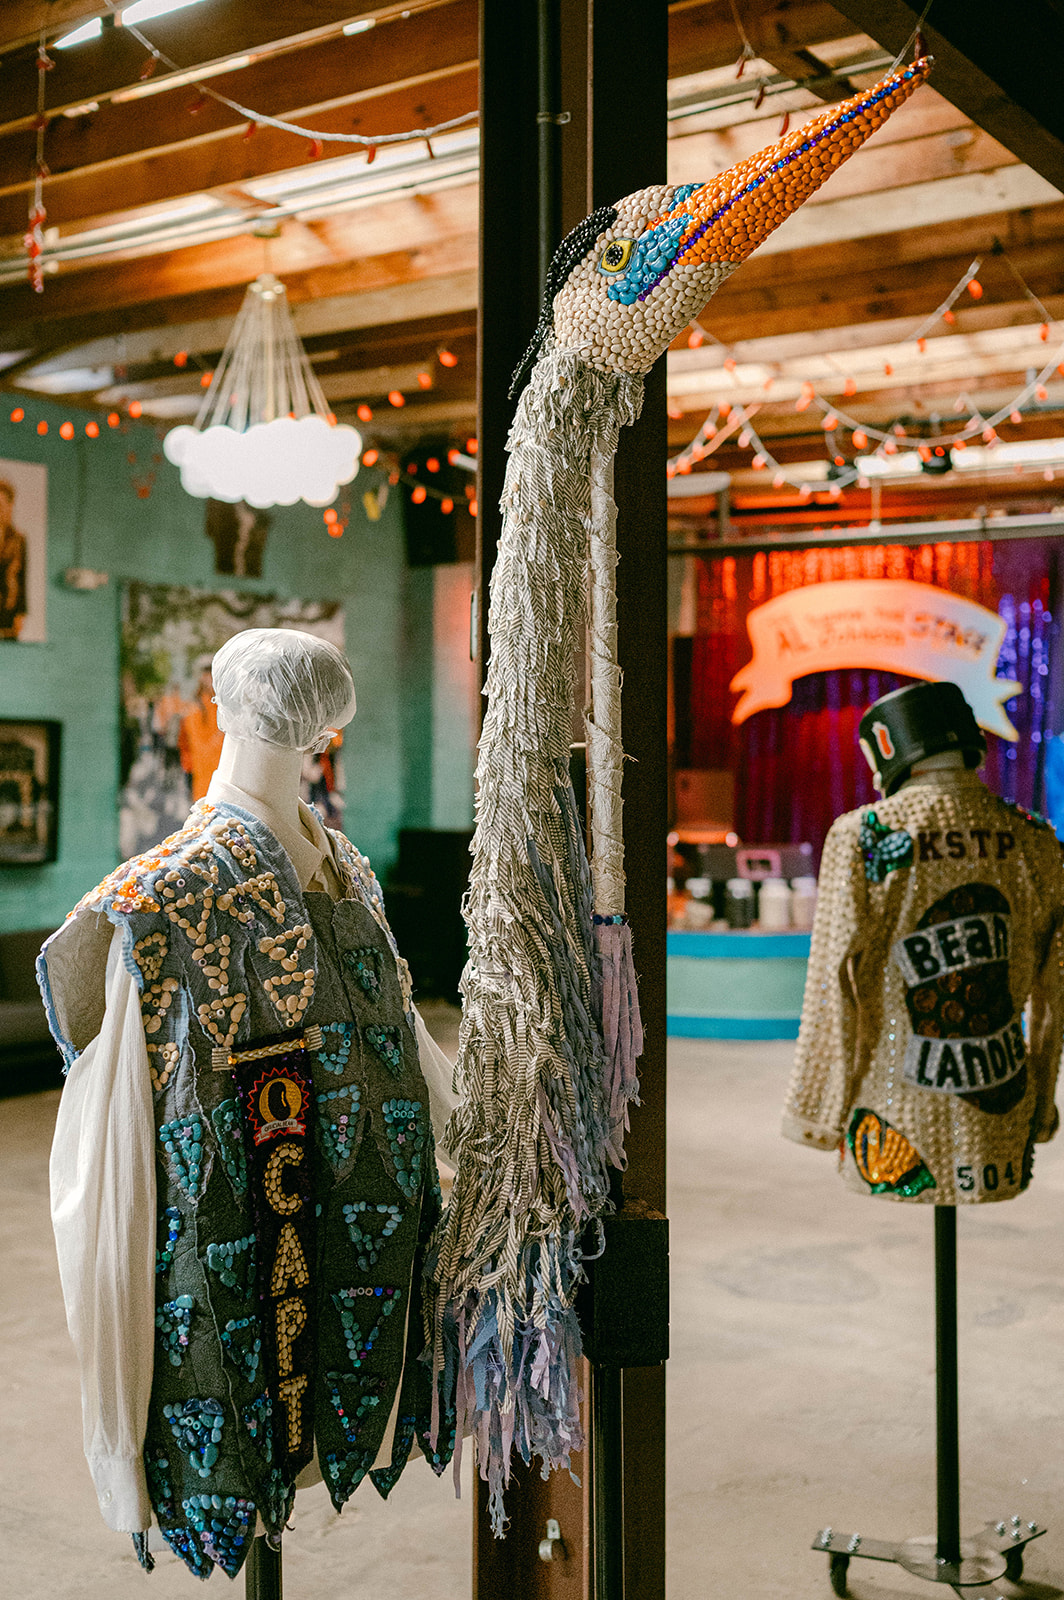
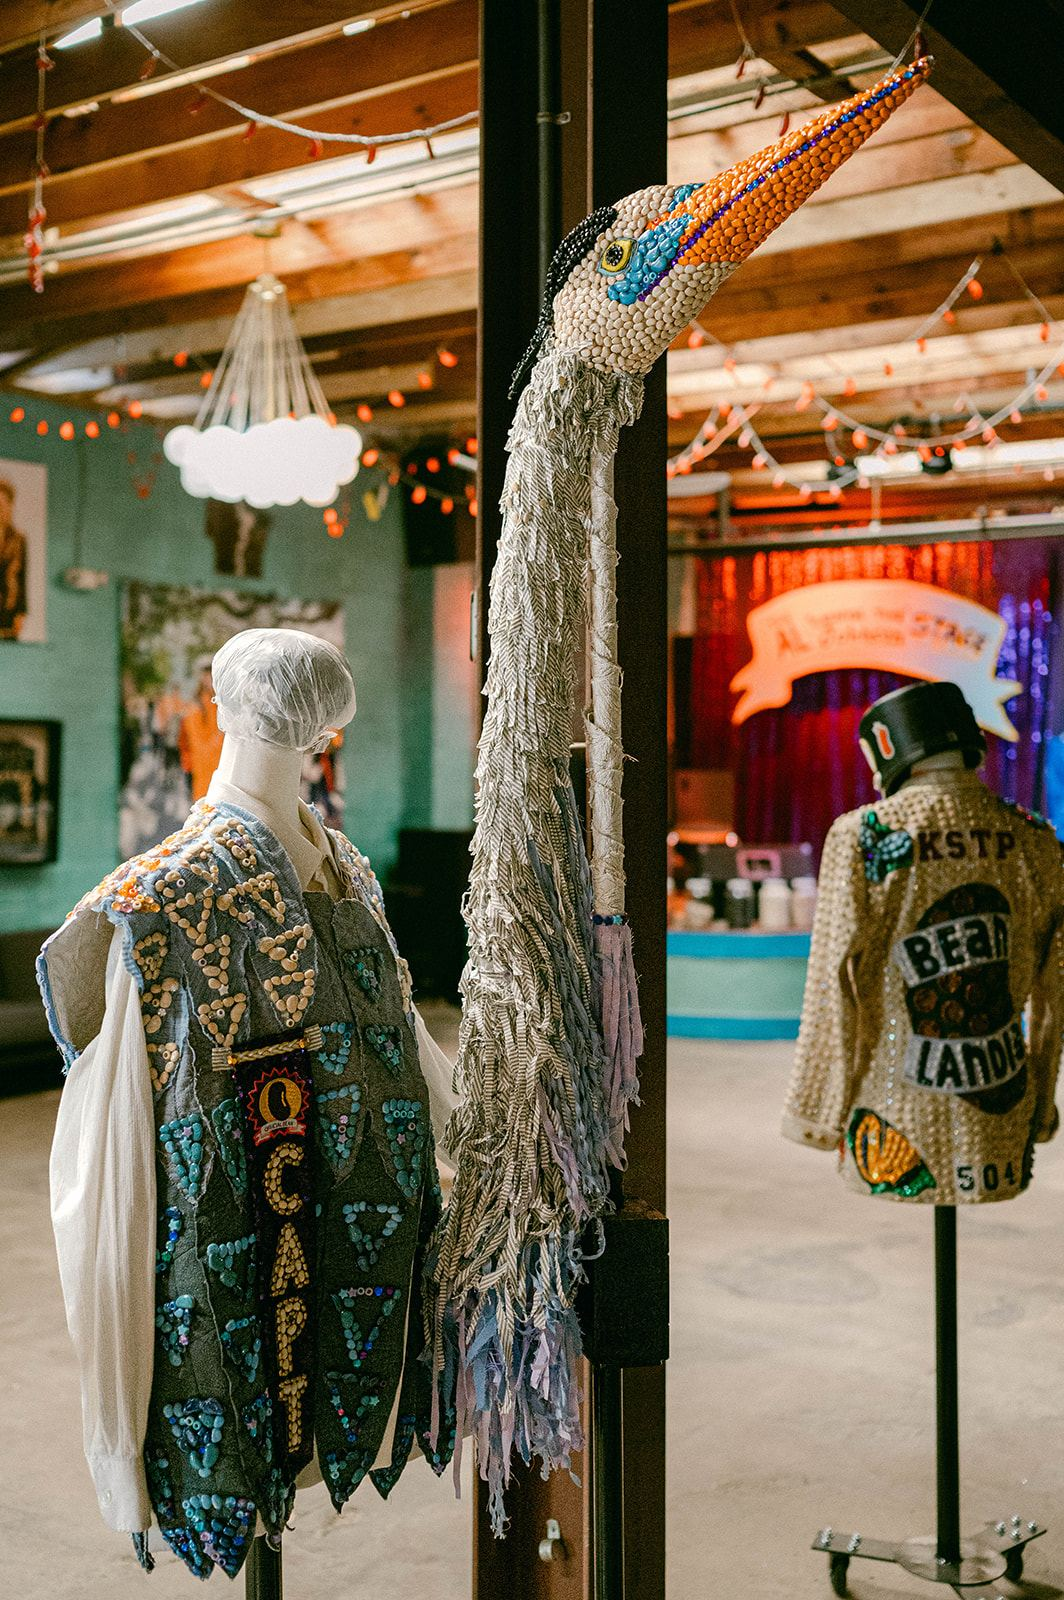
Make events show up faster on the homepage, especially on phones
Move the Events section up to directly after the hero and impact bar (EN + ES); on a phone it now starts about 1.4 screens down instead of 13. Resize and recompress the three oversized homepage photos (mission 4.0 MB to 225 KB, hero background 1.9 MB to 262 KB, museum 759 KB to 360 KB). Defer the remaining YouTube and GiveForms embeds and the two large section photos until they are scrolled near.

Changed region(s): [[0.5583, 0.0312, 0.8684, 0.1875], [0.2171, 0.6562, 0.2791, 0.75], [0.093, 0.5312, 0.1551, 0.5625]]

diff --git a/es/index.html b/es/index.html
@@ -102,6 +102,49 @@
     </div>
   </section>
 
+  <!-- EVENTOS -->
+  <section id="events">
+    <div class="container">
+      <p class="section-eyebrow">Lo que viene</p>
+      <h2>Eventos</h2>
+      <p class="section-intro">Desde noches de baile caj&uacute;n hasta reuniones del krewe, siempre hay algo pasando en Beanlandia.</p>
+
+      <div class="events-grid">
+
+        <div class="event-card">
+          <div class="event-date"><span class="event-month">Nov</span><span class="event-day">12</span></div>
+          <div class="event-info">
+            <h3>Funciones del Fringe Fest</h3>
+            <p>Jueves, viernes y domingo &mdash; 12, 13 y 15 de noviembre.</p>
+            <p class="event-location">Beanlandia &middot; 3300 Royal Street</p>
+          </div>
+        </div>
+
+        <div class="event-card">
+          <div class="event-date"><span class="event-month">Nov</span><span class="event-day">14</span></div>
+          <div class="event-info">
+            <h3>Second line de Andre Cailloux y presentaci&oacute;n del dise&ntilde;o del mural</h3>
+            <p>S&aacute;bado &middot; 10 a.m. &mdash; con la Treme Brass Band y las Mystic 7 Sisters.</p>
+          </div>
+        </div>
+
+        <div class="event-card">
+          <div class="event-date"><span class="event-month">Nov</span><span class="event-day">16</span></div>
+          <div class="event-info">
+            <h3>&iexcl;Empieza la temporada de <em>beaning</em>!</h3>
+            <p>Los lunes por la noche, a partir del 16 de noviembre: nuestras noches para hacer los disfraces del desfile.</p>
+            <p class="event-location">Beanlandia &middot; 3300 Royal Street</p>
+          </div>
+        </div>
+
+      </div>
+
+      <div class="events-footer">
+        <a href="/es/events.html" class="btn btn-primary">Ver el calendario completo &rarr;</a>
+      </div>
+    </div>
+  </section>
+
   <!-- MISI&Oacute;N -->
   <section id="mission">
     <div class="container mission-inner">
@@ -114,7 +157,7 @@
         <a href="#parade" class="btn btn-secondary">Desfila con nosotros</a>
       </div>
       <div class="mission-image">
-        <img src="/images/redbeans_2020_022420_rhr-231.jpg" alt="Integrante del Krewe of Red Beans con un disfraz de la bandera cubana hecho a mano con frijoles el d&iacute;a del desfile" class="section-photo" />
+        <img src="/images/redbeans_2020_022420_rhr-231.jpg" alt="Integrante del Krewe of Red Beans con un disfraz de la bandera cubana hecho a mano con frijoles el d&iacute;a del desfile" class="section-photo" loading="lazy" />
       </div>
     </div>
   </section>
@@ -215,7 +258,7 @@
         <div class="afterschool-video">
           <p class="afterschool-video-label">Conoce a los BeanBots</p>
           <div class="program-video">
-            <iframe src="https://www.youtube.com/embed/xfP_Ix-N54E" title="BeanBots &mdash; Rob&oacute;tica despu&eacute;s de clases en Beanlandia" frameborder="0" allow="accelerometer; autoplay; clipboard-write; encrypted-media; gyroscope; picture-in-picture" allowfullscreen></iframe>
+            <iframe loading="lazy" src="https://www.youtube.com/embed/xfP_Ix-N54E" title="BeanBots &mdash; Rob&oacute;tica despu&eacute;s de clases en Beanlandia" frameborder="0" allow="accelerometer; autoplay; clipboard-write; encrypted-media; gyroscope; picture-in-picture" allowfullscreen></iframe>
           </div>
 
           <p class="afterschool-video-label afterschool-photos-label">BeanBots en acci&oacute;n</p>
@@ -242,7 +285,7 @@
         <div class="cultural-video">
           <p class="cultural-video-label">Krewe of Mayahuel &mdash; Desfile del D&iacute;a de los Muertos</p>
           <div class="story-video">
-            <iframe src="https://www.youtube.com/embed/n7l1Y3B0ZqY" title="Krewe of Mayahuel &mdash; Desfile del D&iacute;a de los Muertos" frameborder="0" allow="accelerometer; autoplay; clipboard-write; encrypted-media; gyroscope; picture-in-picture" allowfullscreen></iframe>
+            <iframe loading="lazy" src="https://www.youtube.com/embed/n7l1Y3B0ZqY" title="Krewe of Mayahuel &mdash; Desfile del D&iacute;a de los Muertos" frameborder="0" allow="accelerometer; autoplay; clipboard-write; encrypted-media; gyroscope; picture-in-picture" allowfullscreen></iframe>
           </div>
         </div>
       </div>
@@ -253,7 +296,7 @@
   <section id="museum">
     <div class="container museum-inner">
       <div class="museum-image">
-        <img src="/images/240412beanlandiaspace_089.jpg" alt="Interior de Beanlandia: trajes de desfile hechos a mano con frijoles sobre maniqu&iacute;es, una escultura de p&eacute;licano y el escenario principal al fondo" class="section-photo" />
+        <img src="/images/240412beanlandiaspace_089.jpg" alt="Interior de Beanlandia: trajes de desfile hechos a mano con frijoles sobre maniqu&iacute;es, una escultura de p&eacute;licano y el escenario principal al fondo" class="section-photo" loading="lazy" />
       </div>
       <div class="museum-text">
         <p class="section-eyebrow">3300 Royal Street</p>
@@ -348,49 +391,6 @@
     </div>
   </section>
 
-  <!-- EVENTOS -->
-  <section id="events">
-    <div class="container">
-      <p class="section-eyebrow">Lo que viene</p>
-      <h2>Eventos</h2>
-      <p class="section-intro">Desde noches de baile caj&uacute;n hasta reuniones del krewe, siempre hay algo pasando en Beanlandia.</p>
-
-      <div class="events-grid">
-
-        <div class="event-card">
-          <div class="event-date"><span class="event-month">Nov</span><span class="event-day">12</span></div>
-          <div class="event-info">
-            <h3>Funciones del Fringe Fest</h3>
-            <p>Jueves, viernes y domingo &mdash; 12, 13 y 15 de noviembre.</p>
-            <p class="event-location">Beanlandia &middot; 3300 Royal Street</p>
-          </div>
-        </div>
-
-        <div class="event-card">
-          <div class="event-date"><span class="event-month">Nov</span><span class="event-day">14</span></div>
-          <div class="event-info">
-            <h3>Second line de Andre Cailloux y presentaci&oacute;n del dise&ntilde;o del mural</h3>
-            <p>S&aacute;bado &middot; 10 a.m. &mdash; con la Treme Brass Band y las Mystic 7 Sisters.</p>
-          </div>
-        </div>
-
-        <div class="event-card">
-          <div class="event-date"><span class="event-month">Nov</span><span class="event-day">16</span></div>
-          <div class="event-info">
-            <h3>&iexcl;Empieza la temporada de <em>beaning</em>!</h3>
-            <p>Los lunes por la noche, a partir del 16 de noviembre: nuestras noches para hacer los disfraces del desfile.</p>
-            <p class="event-location">Beanlandia &middot; 3300 Royal Street</p>
-          </div>
-        </div>
-
-      </div>
-
-      <div class="events-footer">
-        <a href="/es/events.html" class="btn btn-primary">Ver el calendario completo &rarr;</a>
-      </div>
-    </div>
-  </section>
-
   <!-- MEMBRES&Iacute;A -->
   <section id="membership">
     <div class="container membership-inner">
@@ -407,7 +407,7 @@
           <li>&#10003; La buena sensaci&oacute;n de hacer algo que importa</li>
         </ul>
         <p style="margin-top:16px;"><span class="lang-note">(El formulario de pago est&aacute; en ingl&eacute;s. Si necesitas ayuda para inscribirte en espa&ntilde;ol, escr&iacute;benos a <a href="mailto:beans@kreweofredbeans.org">beans@kreweofredbeans.org</a>.)</span></p>
-        <iframe src="https://app.giveforms.com/forms/rocker9955/default-giveform-7-12" frameborder="0" width="100%" height="748" id="gf-iframe-membership" style="display: block; margin: 16px 0 0; border: none;"></iframe>
+        <iframe loading="lazy" src="https://app.giveforms.com/forms/rocker9955/default-giveform-7-12" frameborder="0" width="100%" height="748" id="gf-iframe-membership" style="display: block; margin: 16px 0 0; border: none;"></iframe>
       </div>
       <div class="membership-tiers">
         <div class="tier-card tier-highlight">

diff --git a/index.html b/index.html
@@ -103,6 +103,49 @@
     </div>
   </section>
 
+  <!-- EVENTS -->
+  <section id="events">
+    <div class="container">
+      <p class="section-eyebrow">What's Coming Up</p>
+      <h2>Events</h2>
+      <p class="section-intro">From Cajun dance nights to krewe gatherings, there's always something happening in Beanlandia.</p>
+
+      <div class="events-grid">
+
+        <div class="event-card">
+          <div class="event-date"><span class="event-month">Nov</span><span class="event-day">12</span></div>
+          <div class="event-info">
+            <h3>Fringe Fest Performances</h3>
+            <p>Thursday, Friday &amp; Sunday &mdash; November 12, 13 &amp; 15.</p>
+            <p class="event-location">Beanlandia &middot; 3300 Royal Street</p>
+          </div>
+        </div>
+
+        <div class="event-card">
+          <div class="event-date"><span class="event-month">Nov</span><span class="event-day">14</span></div>
+          <div class="event-info">
+            <h3>Andre Cailloux Second Line &amp; Mural Design Reveal</h3>
+            <p>Saturday &middot; 10am &mdash; with the Treme Brass Band and the Mystic 7 Sisters.</p>
+          </div>
+        </div>
+
+        <div class="event-card">
+          <div class="event-date"><span class="event-month">Nov</span><span class="event-day">16</span></div>
+          <div class="event-info">
+            <h3>Beaning Season Starts!</h3>
+            <p>Monday nights, beginning November 16 &mdash; our costume-making nights for the parade.</p>
+            <p class="event-location">Beanlandia &middot; 3300 Royal Street</p>
+          </div>
+        </div>
+
+      </div>
+
+      <div class="events-footer">
+        <a href="events.html" class="btn btn-primary">See the full calendar &rarr;</a>
+      </div>
+    </div>
+  </section>
+
   <!-- MISSION -->
   <section id="mission">
     <div class="container mission-inner">
@@ -115,7 +158,7 @@
         <a href="#parade" class="btn btn-secondary">Parade with Us</a>
       </div>
       <div class="mission-image">
-        <img src="images/redbeans_2020_022420_rhr-231.jpg" alt="Krewe of Red Beans member in a hand-beaned Cuban flag costume on parade day" class="section-photo" />
+        <img src="images/redbeans_2020_022420_rhr-231.jpg" alt="Krewe of Red Beans member in a hand-beaned Cuban flag costume on parade day" class="section-photo" loading="lazy" />
       </div>
     </div>
   </section>
@@ -215,7 +258,7 @@
         <div class="afterschool-video">
           <p class="afterschool-video-label">Meet the BeanBots</p>
           <div class="program-video">
-            <iframe src="https://www.youtube.com/embed/xfP_Ix-N54E" title="BeanBots &mdash; After School Robotics at Beanlandia" frameborder="0" allow="accelerometer; autoplay; clipboard-write; encrypted-media; gyroscope; picture-in-picture" allowfullscreen></iframe>
+            <iframe loading="lazy" src="https://www.youtube.com/embed/xfP_Ix-N54E" title="BeanBots &mdash; After School Robotics at Beanlandia" frameborder="0" allow="accelerometer; autoplay; clipboard-write; encrypted-media; gyroscope; picture-in-picture" allowfullscreen></iframe>
           </div>
 
           <p class="afterschool-video-label afterschool-photos-label">BeanBots at work</p>
@@ -242,7 +285,7 @@
         <div class="cultural-video">
           <p class="cultural-video-label">Krewe of Mayahuel — Día de los Muertos Parade</p>
           <div class="story-video">
-            <iframe src="https://www.youtube.com/embed/n7l1Y3B0ZqY" title="Krewe of Mayahuel — Day of the Dead Parade" frameborder="0" allow="accelerometer; autoplay; clipboard-write; encrypted-media; gyroscope; picture-in-picture" allowfullscreen></iframe>
+            <iframe loading="lazy" src="https://www.youtube.com/embed/n7l1Y3B0ZqY" title="Krewe of Mayahuel — Day of the Dead Parade" frameborder="0" allow="accelerometer; autoplay; clipboard-write; encrypted-media; gyroscope; picture-in-picture" allowfullscreen></iframe>
           </div>
         </div>
       </div>
@@ -253,7 +296,7 @@
   <section id="museum">
     <div class="container museum-inner">
       <div class="museum-image">
-        <img src="images/240412beanlandiaspace_089.jpg" alt="Inside Beanlandia — hand-beaned parade costumes on mannequins, pelican sculpture, and the main stage in the background" class="section-photo" />
+        <img src="images/240412beanlandiaspace_089.jpg" alt="Inside Beanlandia — hand-beaned parade costumes on mannequins, pelican sculpture, and the main stage in the background" class="section-photo" loading="lazy" />
       </div>
       <div class="museum-text">
         <p class="section-eyebrow">3300 Royal Street</p>
@@ -347,49 +390,6 @@
     </div>
   </section>
 
-  <!-- EVENTS -->
-  <section id="events">
-    <div class="container">
-      <p class="section-eyebrow">What's Coming Up</p>
-      <h2>Events</h2>
-      <p class="section-intro">From Cajun dance nights to krewe gatherings, there's always something happening in Beanlandia.</p>
-
-      <div class="events-grid">
-
-        <div class="event-card">
-          <div class="event-date"><span class="event-month">Nov</span><span class="event-day">12</span></div>
-          <div class="event-info">
-            <h3>Fringe Fest Performances</h3>
-            <p>Thursday, Friday &amp; Sunday &mdash; November 12, 13 &amp; 15.</p>
-            <p class="event-location">Beanlandia &middot; 3300 Royal Street</p>
-          </div>
-        </div>
-
-        <div class="event-card">
-          <div class="event-date"><span class="event-month">Nov</span><span class="event-day">14</span></div>
-          <div class="event-info">
-            <h3>Andre Cailloux Second Line &amp; Mural Design Reveal</h3>
-            <p>Saturday &middot; 10am &mdash; with the Treme Brass Band and the Mystic 7 Sisters.</p>
-          </div>
-        </div>
-
-        <div class="event-card">
-          <div class="event-date"><span class="event-month">Nov</span><span class="event-day">16</span></div>
-          <div class="event-info">
-            <h3>Beaning Season Starts!</h3>
-            <p>Monday nights, beginning November 16 &mdash; our costume-making nights for the parade.</p>
-            <p class="event-location">Beanlandia &middot; 3300 Royal Street</p>
-          </div>
-        </div>
-
-      </div>
-
-      <div class="events-footer">
-        <a href="events.html" class="btn btn-primary">See the full calendar &rarr;</a>
-      </div>
-    </div>
-  </section>
-
   <!-- MEMBERSHIP -->
   <section id="membership">
     <div class="container membership-inner">
@@ -405,7 +405,7 @@
           <li>&#10003; Connection to community — meet new folks!</li>
           <li>&#10003; The good feeling of doing something that matters</li>
         </ul>
-        <iframe src="https://app.giveforms.com/forms/rocker9955/default-giveform-7-12" frameborder="0" width="100%" height="748" id="gf-iframe-membership" style="display: block; margin: 16px 0 0; border: none;"></iframe>
+        <iframe loading="lazy" src="https://app.giveforms.com/forms/rocker9955/default-giveform-7-12" frameborder="0" width="100%" height="748" id="gf-iframe-membership" style="display: block; margin: 16px 0 0; border: none;"></iframe>
       </div>
       <div class="membership-tiers">
         <div class="tier-card tier-highlight">
